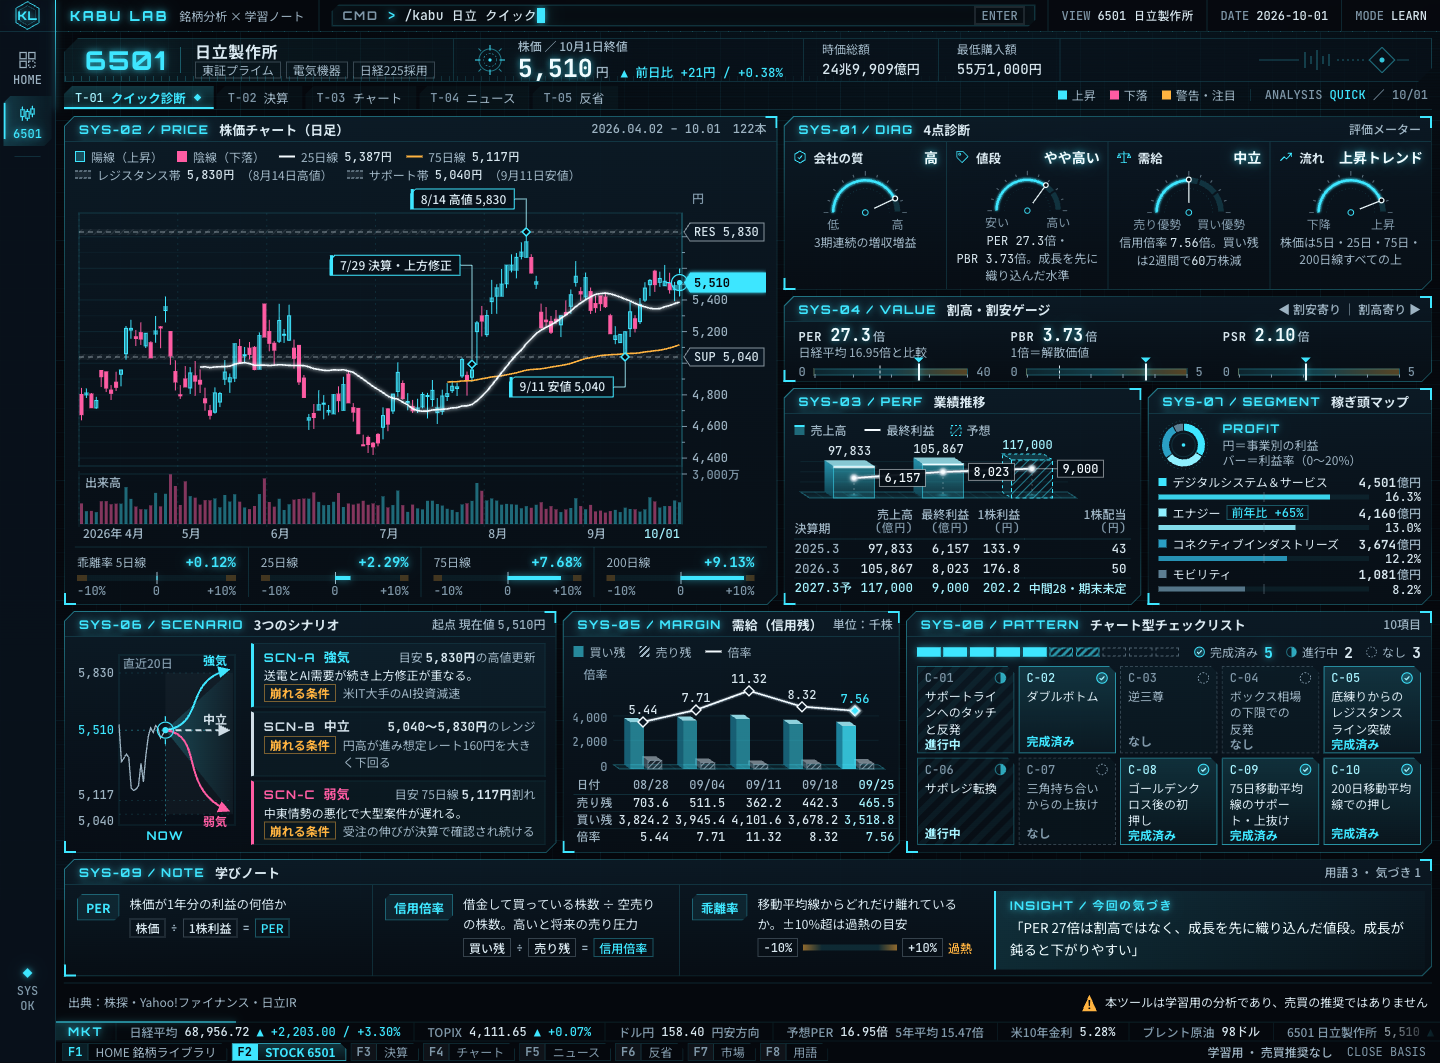
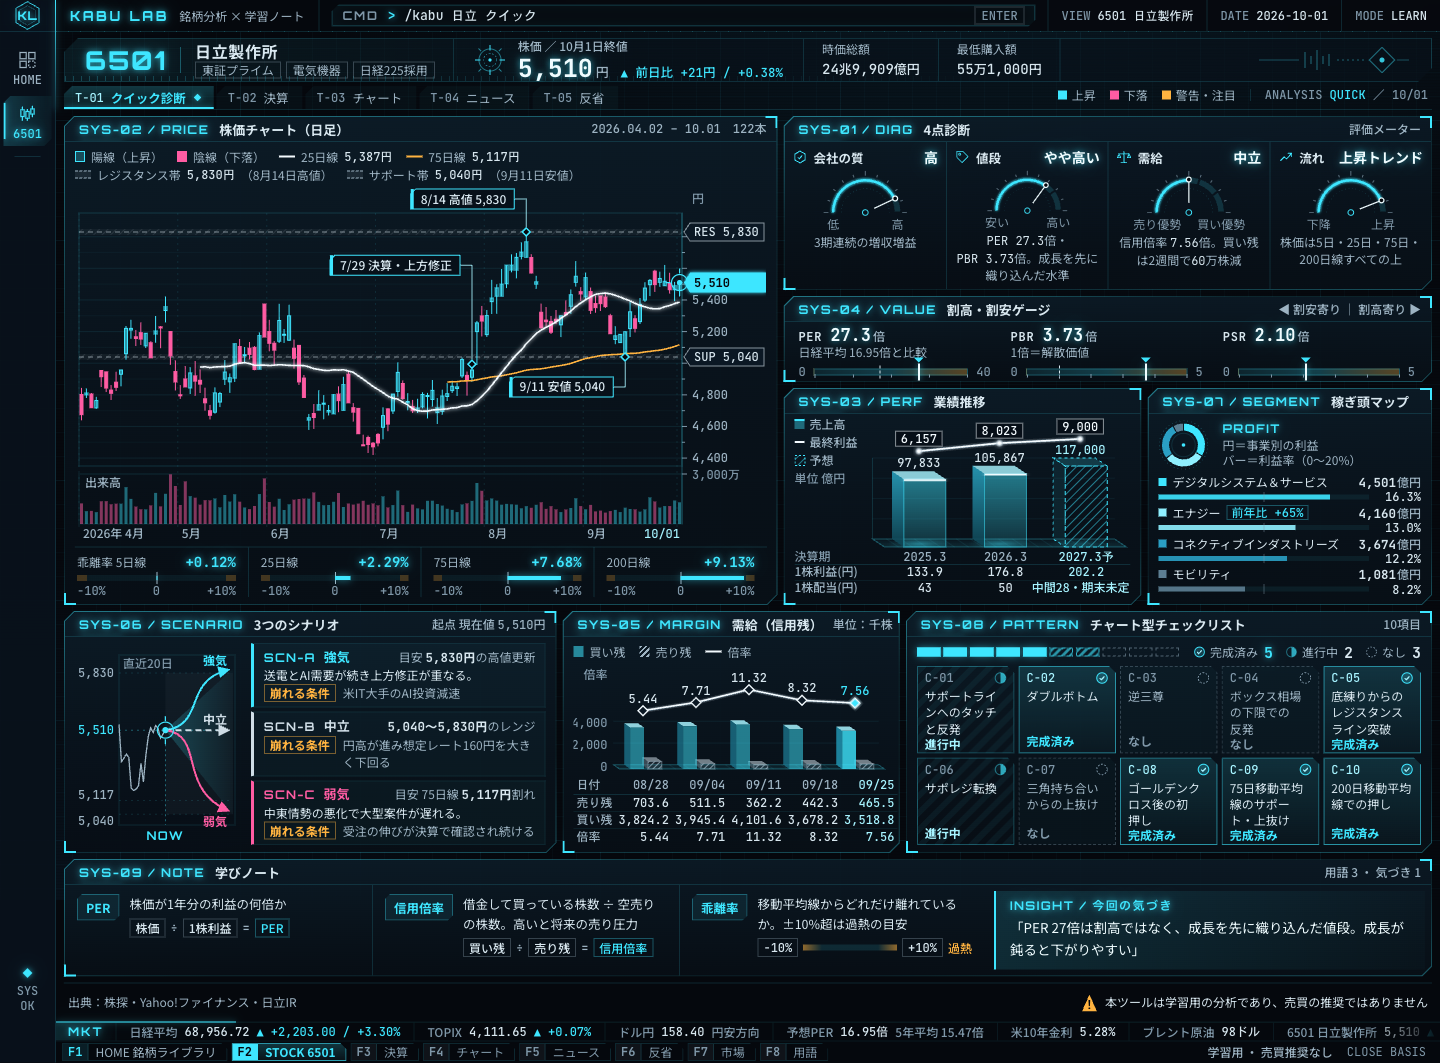
mock: 案6 業績推移の立体棒を拡大

Changed region(s): [[0.5312, 0.3725, 0.7812, 0.5588], [0.4062, 0.6209, 0.625, 0.714], [0.375, 0.0, 0.4062, 0.031]]

diff --git a/mocks/mock-6-final.html b/mocks/mock-6-final.html
@@ -254,7 +254,8 @@ button{font:inherit;color:inherit;background:none;border:0;padding:0;cursor:poin
 .tbl tr:last-child td{border-bottom:0}
 .tbl .fc,.tbl .fc td{color:var(--cy2)}
 .tbl td.jp{font:500 12px/1 var(--jp)}
-#perf{margin:2px 0 3px}
+#perf{margin:0}
+.pair>.panel:first-child .pb{padding-top:3px; padding-bottom:3px}
 
 /* 稼ぎ頭マップ */
 .sg-top{--dz:clamp(50px, calc((100vh - 900px) * .4 + 50px), 104px); flex:none; display:flex; align-items:center; gap:14px; margin-bottom:3px}
@@ -656,14 +657,6 @@ button{font:inherit;color:inherit;background:none;border:0;padding:0;cursor:poin
               <div class="ph"><span class="code">SYS-03 / PERF</span><h2>業績推移</h2></div>
               <div class="pb">
                 <div class="host" id="perf"></div>
-                <table class="tbl">
-                  <thead><tr><th>決算期</th><th>売上高<small>(億円)</small></th><th>最終利益<small>(億円)</small></th><th>1株利益<small>(円)</small></th><th>1株配当<small>(円)</small></th></tr></thead>
-                  <tbody>
-                    <tr><td>2025.3</td><td>97,833</td><td>6,157</td><td>133.9</td><td>43</td></tr>
-                    <tr><td>2026.3</td><td>105,867</td><td>8,023</td><td>176.8</td><td>50</td></tr>
-                    <tr class="fc"><td>2027.3予</td><td>117,000</td><td>9,000</td><td>202.2</td><td class="jp">中間28・期末未定</td></tr>
-                  </tbody>
-                </table>
               </div>
             </div>
           </section>
@@ -1072,52 +1065,79 @@ function tube(p, d, col, dark, w){
   return g;
 }
 
-/* ---------- 業績推移（立体棒＋浮遊する利益線） ---------- */
+/* ---------- 業績推移（立体棒＋浮遊する利益線＋転置した数表） ----------
+   左の余白列＝凡例と数表の行見出し。決算期ラベルは棒の真下に置き、数表の列見出しを兼ねる。
+   縦の積み順（上から）：最終利益の札 → 利益の点・線 → 売上高の値 → 立体棒 → 床 → 決算期 → 1株利益 → 1株配当 */
 function drawPerf(){
   const host=$('#perf'); const [W,H]=box(host); if(!W||!H) return;
-  const DX=Math.min(14,Math.max(9,H*.09)), DY=DX*.66;
-  const LG=17, LBW=46;                    /* 凡例の帯の高さ／利益ラベルの幅 */
-  const pl=6+DX, pr=LBW+8, pb=3, base=H-pb, ch=(base-LG-DY-15)/0.936; /* 最も高い棒の上面ラベルが凡例に触れない最大の高さ */
-  const svg=el('svg',{width:W,height:H,viewBox:`0 0 ${W} ${H}`,role:'img','aria-label':'売上高と最終利益の推移'},host);
+  const svg=el('svg',{width:W,height:H,viewBox:`0 0 ${W} ${H}`,role:'img',
+    'aria-label':'業績推移。売上高(億円) 2025.3 97,833／2026.3 105,867／2027.3予 117,000。最終利益(億円) 6,157／8,023／9,000。1株利益(円) 133.9／176.8／202.2。1株配当(円) 43／50／中間28・期末未定'},host);
   const defs=el('defs',null,svg);
   const hp=el('pattern',{id:'fch',width:6,height:6,patternUnits:'userSpaceOnUse',patternTransform:'rotate(45)'},defs);
   el('line',{x1:0,y1:0,x2:0,y2:6,stroke:'rgba(62,230,255,.5)','stroke-width':2},hp);
-  // 凡例（SVG内の上端に置いて棒の高さを稼ぐ）
-  const lgd=el('g',null,svg); let lx=0;
-  el('rect',{x:lx,y:3,width:10,height:10,fill:'rgba(62,230,255,.4)'},lgd); el('rect',{x:lx,y:3,width:10,height:2,fill:C.cy},lgd); tx(lgd,lx+16,12.5,'売上高',{class:'st-j',fill:C.tx2}); lx+=16+40+14;
-  el('line',{x1:lx,x2:lx+16,y1:8,y2:8,stroke:C.w,'stroke-width':2},lgd); tx(lgd,lx+22,12.5,'最終利益',{class:'st-j',fill:C.tx2}); lx+=22+50+14;
-  el('rect',{x:lx+.5,y:3.5,width:10,height:10,fill:'url(#fch)',stroke:C.cy,'stroke-dasharray':'2 2'},lgd); tx(lgd,lx+16,12.5,'予想',{class:'st-j',fill:C.tx2});
+
+  const GUT=76, RH=16, AX=17;                          /* 左余白列／数表の行高／決算期の行高 */
+  const DX=Math.round(Math.min(18,Math.max(12,W*.034))), DY=Math.round(DX*.66);
+  const pl=GUT+DX+2, pr=4, base=H-2-RH*2-AX-3;
+  const gw=(W-pl-pr)/3, bwid=Math.min(70,gw*.52);
   const rows=[['2025.3',97833,6157,false],['2026.3',105867,8023,false],['2027.3予',117000,9000,true]];
-  const gw=(W-pl-pr)/3, bwid=Math.min(60,gw*.46);
-  const RY=v=>base-v/125000*ch, PY=v=>base-v/12500*ch;
-  // 奥の壁の目盛＋床グリッド
-  [.25,.5,.75].forEach(f=>{ const y=base-ch*f; el('line',{x1:pl-DX,x2:W-pr-DX,y1:y-DY,y2:y-DY,stroke:'rgba(62,230,255,.07)'},svg); });
+  /* 最も高い棒の上に「売上高の値(13)＋隙間(5)＋利益の札(20)」が収まる最大の高さ */
+  const H3=Math.min(base-DY-41, (base-6)*.86);
+  const RY=v=>base-v/117000*H3;
+  const labTop=i=>RY(rows[i][1])-DY-13;              /* 売上高の値の上端 */
+  const p3=labTop(2)-6;
+  const k=Math.min((labTop(0)-6-p3)/(9000-6157),(labTop(1)-6-p3)/(9000-8023))*.92;
+  const PY=v=>p3+(9000-v)*k;
+
+  // 左余白列：凡例（単位は1回だけ）
+  const lgd=el('g',null,svg); let ly=10;
+  el('rect',{x:0,y:ly-8,width:10,height:10,fill:'rgba(62,230,255,.4)'},lgd); el('rect',{x:0,y:ly-8,width:10,height:2,fill:C.cy},lgd); tx(lgd,15,ly+1.5,'売上高',{class:'st-j',fill:C.tx2}); ly+=18;
+  el('line',{x1:0,x2:10,y1:ly-3,y2:ly-3,stroke:C.w,'stroke-width':2},lgd); tx(lgd,15,ly+1.5,'最終利益',{class:'st-j',fill:C.tx2}); ly+=18;
+  el('rect',{x:.5,y:ly-7.5,width:10,height:10,fill:'url(#fch)',stroke:C.cy,'stroke-dasharray':'2 2'},lgd); tx(lgd,15,ly+1.5,'予想',{class:'st-j',fill:C.tx2}); ly+=18;
+  tx(lgd,0,ly+1.5,'単位 億円',{class:'st-j',fill:C.tx3});
+
+  // 奥の壁の目盛＋床グリッド＋足元の影
+  [.25,.5,.75,1].forEach(f=>{ const y=base-H3*f; el('line',{x1:pl-DX,x2:W-pr-DX,y1:y-DY,y2:y-DY,stroke:'rgba(62,230,255,.06)'},svg); });
+  el('line',{x1:pl-DX,x2:pl-DX,y1:base-H3-DY,y2:base-DY,stroke:'rgba(62,230,255,.14)'},svg);
   floor3d(svg,pl,W-pr,base,DX,DY);
   const pts=[];
   rows.forEach((r,i)=>{
-    const cx=pl+gw*(i+.5), y=RY(r[1]), x0=cx-bwid/2, f=r[3];
+    const cx=pl+gw*(i+.5), x0=cx-bwid/2, y=RY(r[1]), f=r[3];
+    el('ellipse',{cx:cx-DX/2,cy:base-DY/2+1,rx:bwid*.62+DX/2,ry:DY*.55+2,fill:'url(#g3Pool)',opacity:f?.5:.9},svg);
     const bg=el('g',{class:'a-grow'},svg); bg.style.animationDelay=(i*.12)+'s';
     bar3d(bg,x0,y,bwid,base,DX,DY, f
-      ? {front:'url(#fch)',side:'rgba(62,230,255,.07)',top:'rgba(62,230,255,.16)',edge:C.cy,dash:'3 3',fedge:C.cy,fdash:'4 3'}
-      : {front:'url(#g3BarF)',side:'url(#g3BarL)',top:'rgba(166,243,255,.8)',fedge:'rgba(62,230,255,.55)',hi:true});
-    // 売上高：上面の上に置く
-    tx(svg,cx-DX/2,y-DY-5,fmt(r[1]),{class:'st-t','text-anchor':'middle',fill:f?C.cy2:C.tx});
-    pts.push([cx,PY(r[2]),r[2],x0+bwid]);
+      ? {front:'url(#fch)',side:'rgba(62,230,255,.08)',top:'rgba(62,230,255,.18)',edge:C.cy,dash:'3 3',fedge:C.cy,fdash:'4 3'}
+      : {front:'url(#g3BarF)',side:'url(#g3BarL)',top:'rgba(166,243,255,.82)',fedge:'rgba(62,230,255,.55)',hi:true});
+    const mx=cx-DX/2;                                   /* 上面の中心＝ラベルの軸 */
+    tx(svg,mx,y-DY-4,fmt(r[1]),{class:'st-t','text-anchor':'middle',fill:f?C.cy2:C.tx});
+    pts.push([mx,PY(r[2]),r[2]]);
+    // 決算期（軸ラベル兼 数表の列見出し）
+    tx(svg,cx,base+AX-3,r[0],{class:'st-t','text-anchor':'middle',fill:f?C.cy2:C.tx2});
   });
-  // 浮遊する利益線：床へ落ちる点線と光だまり
-  pts.forEach(p=>{
-    el('line',{x1:p[0],x2:p[0],y1:p[1]+5,y2:base-DY*.5,stroke:'rgba(244,251,255,.3)','stroke-dasharray':'2 3'},svg);
-    el('ellipse',{cx:p[0],cy:base-DY*.5,rx:9,ry:2.8,fill:'url(#g3Pool)'},svg);
-  });
+  // 浮遊する最終利益の線と札（点の上側）
   const lg=el('g',{class:'a-rv'},svg); lg.style.animationDelay='.5s';
-  tube(lg,'M'+pts.map(p=>p[0].toFixed(1)+' '+p[1].toFixed(1)).join(' L'),C.w,'#5d7686',1.7);
-  // 最終利益：棒の右の隙間に札を出す
+  tube(lg,'M'+pts.map(p=>p[0].toFixed(1)+' '+p[1].toFixed(1)).join(' L'),C.w,'#5d7686',1.6);
   pts.forEach(p=>{
-    el('circle',{cx:p[0],cy:p[1],r:4.4,fill:'url(#g3OrbW)',filter:'url(#mglow)'},svg);
-    const bx=p[3]+5;
-    el('line',{x1:p[0]+4,x2:bx,y1:p[1],y2:p[1],stroke:'rgba(244,251,255,.55)'},svg);
-    el('rect',{x:bx,y:p[1]-8.5,width:LBW,height:17,fill:'rgba(6,14,22,.95)',stroke:'rgba(244,251,255,.5)'},svg);
-    tx(svg,bx+LBW/2,p[1]+4,fmt(p[2]),{class:'st-t','text-anchor':'middle',fill:C.w});
+    el('circle',{cx:p[0],cy:p[1],r:3.6,fill:'url(#g3OrbW)',filter:'url(#mglow)'},svg);
+    const lab=fmt(p[2]), w=lab.length*7.3+10;
+    el('rect',{x:p[0]-w/2,y:p[1]-20,width:w,height:15,fill:'rgba(6,14,22,.95)',stroke:'rgba(244,251,255,.55)'},svg);
+    tx(svg,p[0],p[1]-8.5,lab,{class:'st-t','text-anchor':'middle',fill:C.w});
+  });
+
+  // 転置した数表（行＝1株利益／1株配当、列＝決算期。列は棒の真下に揃える）
+  tx(svg,0,base+AX-3,'決算期',{class:'st-j',fill:C.tx3});
+  const t0=base+AX;
+  el('line',{x1:0,x2:W,y1:t0+.5,y2:t0+.5,stroke:'rgba(62,230,255,.14)'},svg);
+  [['1株利益(円)',['133.9','176.8','202.2']],['1株配当(円)',['43','50','中間28・期末未定']]].forEach(([lab,vals],j)=>{
+    const yb=t0+RH*(j+1)-4.5;
+    if(j) el('line',{x1:0,x2:W,y1:t0+RH+.5,y2:t0+RH+.5,stroke:'rgba(62,230,255,.07)'},svg);
+    tx(svg,0,yb,lab,{class:'st-j',fill:C.tx2});
+    vals.forEach((v,i)=>{
+      const cx=pl+gw*(i+.5), jp=/[^\d.,]/.test(v);
+      const tt=tx(svg,cx,yb,v,{class:jp?'st-j':'st-t','text-anchor':'middle',fill:i===2?C.cy2:C.tx});
+      const tw=tt.getComputedTextLength();
+      if(cx+tw/2>W-1){ tt.setAttribute('text-anchor','end'); tt.setAttribute('x',W-1); }
+    });
   });
 }
 
@@ -1131,7 +1151,9 @@ function drawSupply(){
   const hp=el('pattern',{id:'sh',width:4,height:4,patternUnits:'userSpaceOnUse',patternTransform:'rotate(45)'},defs);
   el('rect',{width:4,height:4,fill:'rgba(157,179,194,.12)'},hp); el('line',{x1:0,y1:0,x2:0,y2:4,stroke:'#9db3c2','stroke-width':1.6},hp);
   const gw=(W-pl-pr)/rows.length, bw=Math.min(15,gw*.26);
-  const BY=v=>base-v/8000*ch, RY=v=>pt+16+(12-v)/(12-5)*(ch*.38);
+  const BY=v=>base-v/9000*ch;
+  /* 倍率の線は棒の上の帯だけを使う（最も高い棒の上面より8px上まで）＝棒と線・ラベルが重ならない */
+  const bandTop=pt+16, bandBot=BY(4101.6)-DY-8, RY=v=>bandTop+(12-v)/(12-5)*(bandBot-bandTop);
   [2000,4000].forEach(v=>el('line',{x1:pl-DX,x2:W-pr-DX,y1:BY(v)-DY,y2:BY(v)-DY,stroke:'rgba(62,230,255,.07)'},svg));
   [0,2000,4000].forEach(v=>tx(svg,pl-DX-6,BY(v)-DY*.5+4,v?fmt(v):'0',{class:'st-t','text-anchor':'end',fill:C.tx3}));
   floor3d(svg,pl,W-pr,base,DX,DY);
